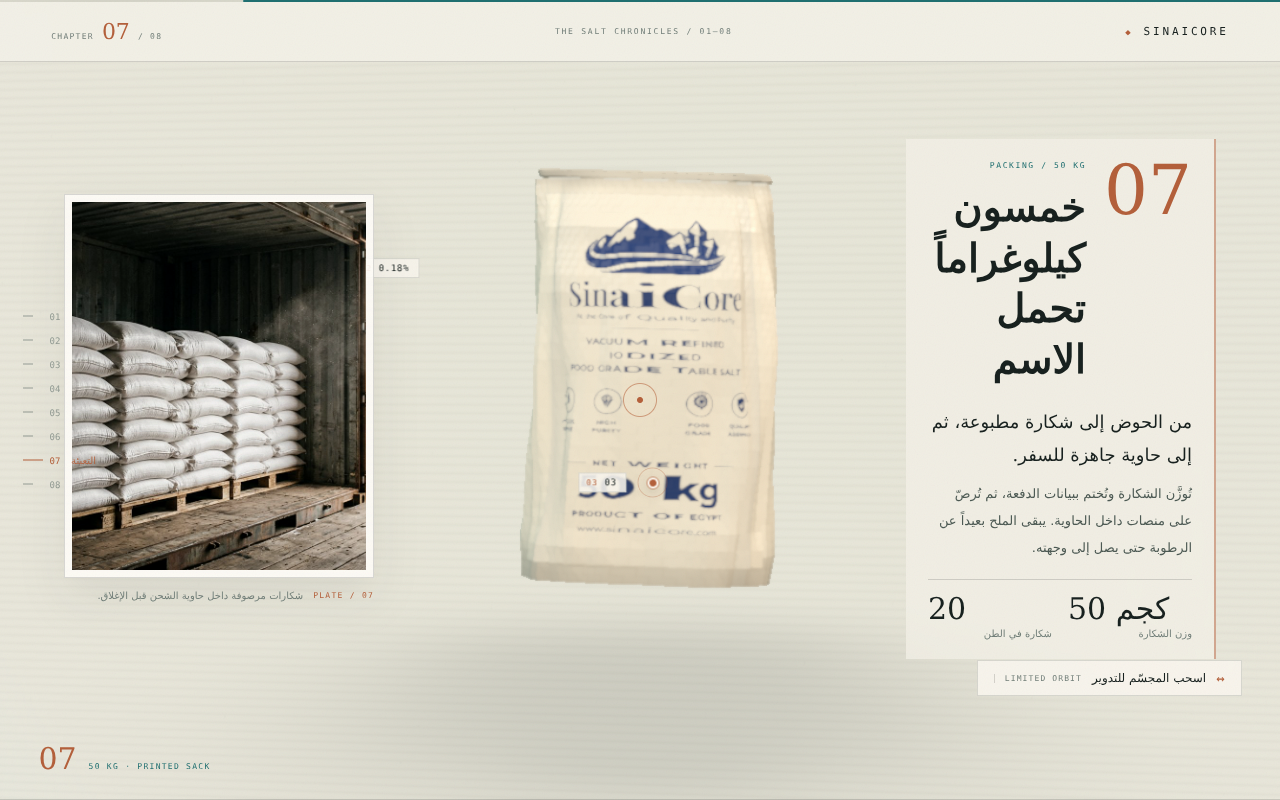
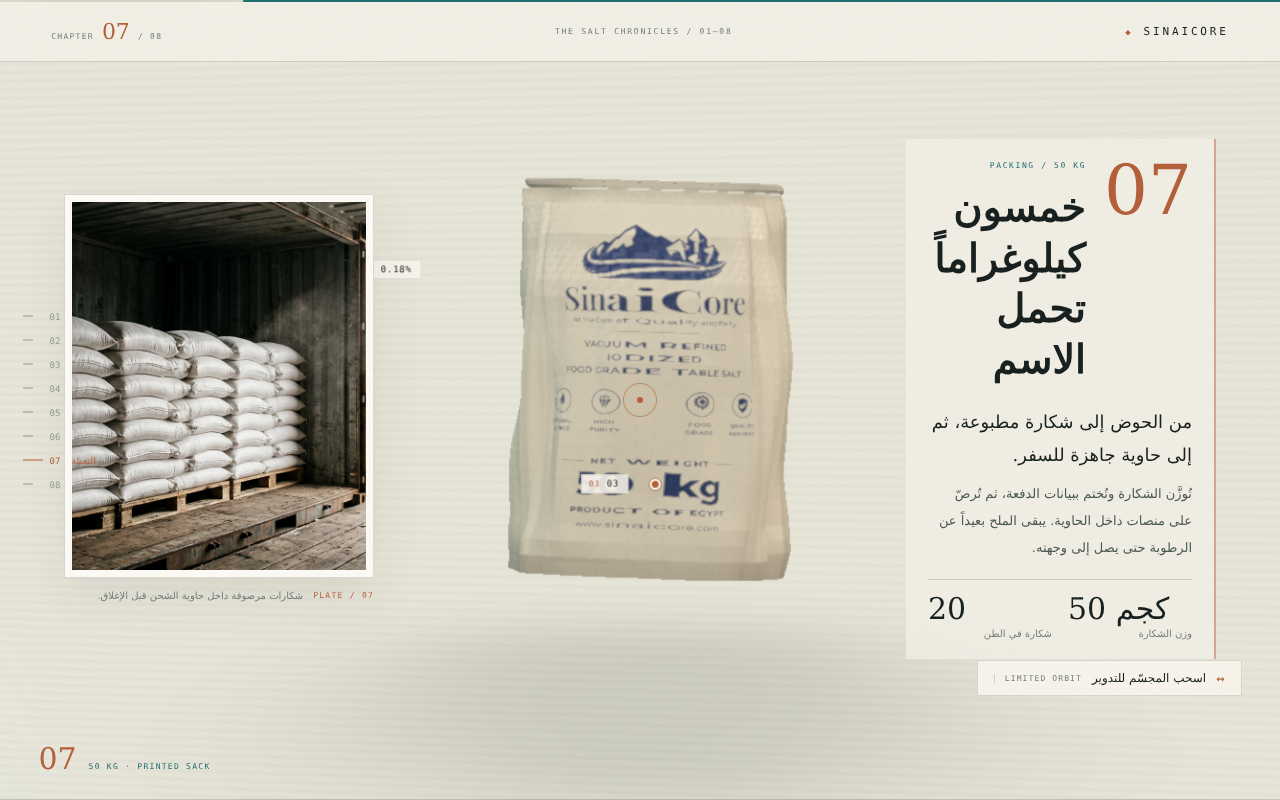
Widen the sack to filled proportions, add cloth sheen, side lobes and a neutral tone map

Changed region(s): [[0.375, 0.1875, 0.625, 0.75], [0.2812, 0.3125, 0.3125, 0.3438]]

diff --git a/viewer/main.js b/viewer/main.js
@@ -11,7 +11,7 @@ const status = document.getElementById('status')
 const renderer = new THREE.WebGLRenderer({ antialias: true, alpha: true })
 renderer.setPixelRatio(Math.min(window.devicePixelRatio, 2))
 renderer.setSize(window.innerWidth, window.innerHeight)
-renderer.toneMapping = THREE.ACESFilmicToneMapping
+renderer.toneMapping = THREE.NeutralToneMapping
 renderer.toneMappingExposure = 0.88
 renderer.shadowMap.enabled = true
 renderer.shadowMap.type = THREE.PCFSoftShadowMap
@@ -21,7 +21,7 @@ const scene = new THREE.Scene()
 scene.background = null
 
 const camera = new THREE.PerspectiveCamera(30, window.innerWidth / window.innerHeight, 0.1, 100)
-camera.position.set(1.9, 0.4, 5.7)
+camera.position.set(1.62, 0.2, 5.15)
 
 /* A studio box gives the PP sheen something to reflect without shipping an HDRI. */
 const pmrem = new THREE.PMREMGenerator(renderer)
@@ -98,25 +98,33 @@ loader
     weave.wrapS = weave.wrapT = THREE.RepeatWrapping
     weave.anisotropy = Math.min(8, renderer.capabilities.getMaxAnisotropy())
 
-    const printed = new THREE.MeshStandardMaterial({
+    const printed = new THREE.MeshPhysicalMaterial({
       map: texture,
-      color: '#f5f3ec',
+      color: '#f3f4f5',
       vertexColors: true,
       bumpMap: weave,
-      bumpScale: 0.022,
+      bumpScale: 0.03,
       roughnessMap: weave,
       roughness: 0.95,
       metalness: 0,
+      // Woven PP has a dry, cloth-like sheen at grazing angles; without it the
+      // white bag reads as painted plastic.
+      sheen: 0.22,
+      sheenRoughness: 0.9,
+      sheenColor: new THREE.Color('#ffffff'),
       envMapIntensity: 0.24,
     })
-    const fabric = new THREE.MeshStandardMaterial({
-      color: '#f5f3ec',
+    const fabric = new THREE.MeshPhysicalMaterial({
+      color: '#f3f4f5',
       vertexColors: true,
       bumpMap: weave,
-      bumpScale: 0.022,
+      bumpScale: 0.03,
       roughnessMap: weave,
       roughness: 0.96,
       metalness: 0,
+      sheen: 0.22,
+      sheenRoughness: 0.9,
+      sheenColor: new THREE.Color('#ffffff'),
       envMapIntensity: 0.26,
     })
 

diff --git a/src/components/Sculpture.tsx b/src/components/Sculpture.tsx
@@ -625,7 +625,7 @@ function SackAsset({ scale = 1, position = [0, 0, 0], texture }: SackProps) {
        the blue). */
     const printed = new THREE.MeshStandardMaterial({
       map: texture,
-      color: '#c9c1b0',
+      color: '#d9d3c6',
       vertexColors: true,
       bumpMap: maps.weave,
       bumpScale: 0.024,
@@ -635,7 +635,7 @@ function SackAsset({ scale = 1, position = [0, 0, 0], texture }: SackProps) {
       envMapIntensity: 0.24,
     })
     const fabric = new THREE.MeshStandardMaterial({
-      color: '#c9c1b0',
+      color: '#d9d3c6',
       vertexColors: true,
       envMapIntensity: 0.38,
       bumpMap: maps.weave,

diff --git a/src/components/Scene.tsx b/src/components/Scene.tsx
@@ -235,7 +235,7 @@ function Effects() {
     <>
       <FocusRig target={focus} />
       <EffectComposer multisampling={0} enableNormalPass={false}>
-  <DepthOfField target={focus} focusRange={0.14} bokehScale={1.15} resolutionScale={0.85} />
+  <DepthOfField target={focus} focusRange={0.3} bokehScale={0.9} resolutionScale={0.9} />
         <Bloom luminanceThreshold={0.94} luminanceSmoothing={0.18} intensity={0.16} mipmapBlur />
       </EffectComposer>
     </>
